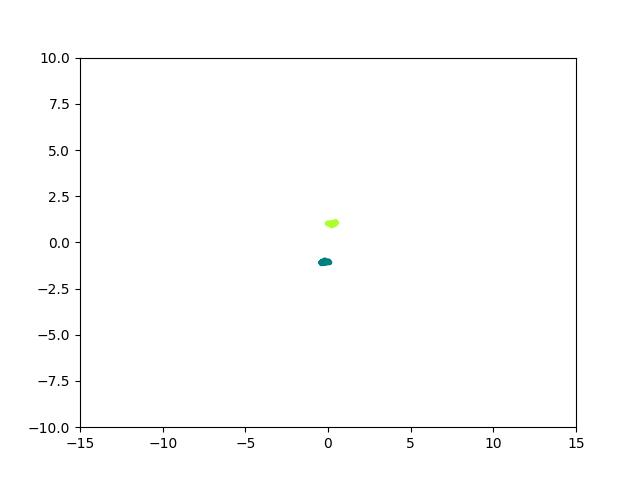
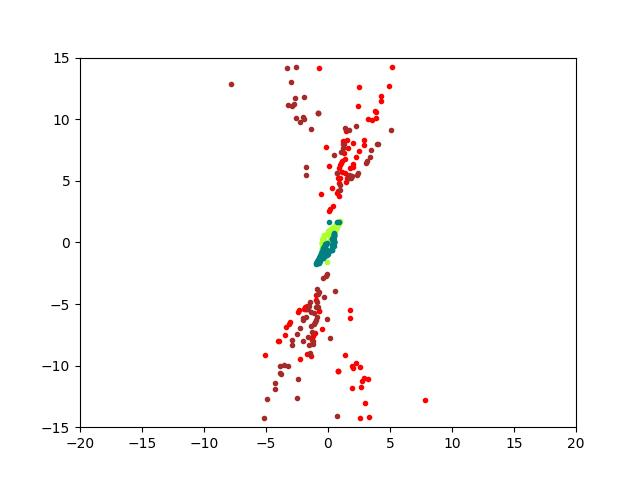
linear triangulation working ++

diff --git a/usivaraman_P2/Phase1/Wrapper.py b/usivaraman_P2/Phase1/Wrapper.py
@@ -34,9 +34,8 @@ def DrawCameras(R, C,plt,ax,label):
     angle = Rotation.from_matrix(R).as_euler("XYZ")
     angle = np.rad2deg(angle)
     plt.plot(C[0],C[2],marker=(3, 0, int(angle[1])),markersize=15,linestyle='None') 
-    corr = -0.1
-    ax.annotate(label,xy=(C[0]+corr,C[2]+corr))
-    # ax.annotate(label,xy=(C[0]))
+   
+    ax.annotate(label,xy=(C[0]))
 
 #Reading the set of matches for the five images given and extracting features
 def features_from_matches():
@@ -128,7 +127,7 @@ def main():
             idx = np.array(idx).reshape(-1)
             
             if len(idx) > 8:
-                F_inliers, inliers_idx = GetInliersRANSAC(pts1,pts2,4000,0.003,idx)                
+                F_inliers, inliers_idx = GetInliersRANSAC(pts1,pts2,2000,0.003,idx)                
                 f_matrix[i,j] = F_inliers
                 filtered_feature_flag[inliers_idx,j] = 1
                 filtered_feature_flag[inliers_idx,i] = 1
@@ -166,12 +165,11 @@ def main():
     # X = X/X[3]
     X = np.array(X)
 
-   
 
     plt.figure("camera disambiguation")
     # plt.set(xlim=(-30, 30), ylim=(-30,30))
-    plt.xlim([-15, 15])
-    plt.ylim([-10, 10])
+    plt.xlim([-20, 20])
+    plt.ylim([-15, 15])
     colors = ['red','brown','greenyellow','teal']
     for color, X_c in zip(colors, X):
         plt.scatter(X_c[:,0],X_c[:,2],color=color,marker='.')
@@ -180,40 +178,45 @@ def main():
     plt.show()
     plt.close()
 
-    # X = X.reshape(-1,1)
+    # # Given World point X and Camera Poses, Disambiguating 
+    # Rpose,Cpose,Xpose =DisambiguateCameraPose(RSet,CSet,X)
+    # Xpose = Xpose/Xpose[3]
+    # # Xpose = Xpose[0:3]
+    # Xpose = np.array(Xpose)
+   
+    # fig = plt.figure()
+    # ax = fig.add_subplot()
+    # plt.scatter(X[:,0], X[:,2],c="g",s=1,label="Linear Triangulation")
+    # plt.savefig("/home/uthira/Documents/GitHub/RBE549_SFM_NERF/usivaraman_P2/Phase1/Data/IntermediateOutputImages/Linear_Triangulation.jpg")
 
-    # Given World point X and Camera Poses, Disambiguating 
-    
-    Rpose,Cpose,Xpose =DisambiguateCameraPose(RSet,CSet,X)
-    Xpose = Xpose/Xpose[3]
-    # Xpose = Xpose[0:3]
-    Xpose = np.array(Xpose)
+    # plt.show()
+    # plt.close()
 
-    fig = plt.figure()
-    ax = fig.add_subplot()
-    plt.scatter(Xpose[:,0], Xpose[:,2],c="b",s=1,label="Disambiguate Camera Pose")
+    # fig = plt.figure()
+    # ax = fig.add_subplot()
+    # plt.scatter(Xpose[:,0], Xpose[:,2],c="b",s=1,label="Disambiguate Camera Pose")
     # plt.savefig("/home/uthira/Documents/GitHub/RBE549_SFM_NERF/usivaraman_P2/Phase1/Data/IntermediateOutputImages/DisambiguateCameraPose.jpg")
 
     # plt.show()
     # plt.close()
 
 
-    # Given World Point X and Camera Poses, We refine the world Point using geometric error using Non Linear Triangulation 
-    X_optimized = NonlinearTriangulation(K,R1_,C1_,Rpose,Cpose,pts1, pts2, Xpose)
+    # # Given World Point X and Camera Poses, We refine the world Point using geometric error using Non Linear Triangulation 
+    # X_optimized = NonlinearTriangulation(K,R1_,C1_,Rpose,Cpose,pts1, pts2, Xpose)
     # fig = plt.figure()
     # ax = fig.add_subplot()
-    plt.scatter(X_optimized[:,0], X_optimized[:,2],c="r",s=1,label="NonLinear_Triangulation")
+    # plt.scatter(X_optimized[:,0], X_optimized[:,2],c="r",s=1,label="NonLinear_Triangulation")
     # plt.savefig("/home/uthira/Documents/GitHub/RBE549_SFM_NERF/usivaraman_P2/Phase1/Data/IntermediateOutputImages/NonLinear_Triangulation.jpg")
 
     # plt.show()
     # plt.close()
 
    
-    DrawCameras(R1_,C1_,plt,ax,"1") #Draw 1st camera 
-    DrawCameras(Rpose,Cpose,plt,ax,"2")  # Draw 2nd camera
+    # DrawCameras(R1_,C1_,plt,ax,"1") #Draw 1st camera 
+    # DrawCameras(Rpose,Cpose,plt,ax,"2")  # Draw 2nd camera
 
-    plt.legend()
-    plt.show()
+    # plt.legend()
+    # plt.show()
     
 
 

diff --git a/usivaraman_P2/Phase1/DisambiguateCameraPose.py b/usivaraman_P2/Phase1/DisambiguateCameraPose.py
@@ -26,30 +26,23 @@ def DisambiguateCameraPose(RSet,CSet,XValues):
     max_positive_depths = 0
     for i in range(len(RSet)):
         R, C= RSet[i], CSet[i]
-        print("R :",R) 
-        print("R  shape:",R.shape)
-        print("C :",C)
-        print("C  shape:",C.shape)
+        # print("R :",R) 
+        # print("R  shape:",R.shape)
+        # print("C :",C)
+        # print("C  shape:",C.shape)
         
 
-        # C = np.transpose(C).reshape(-1,1)
-        # print("C.T :",C)
+        C = np.transpose(C).reshape(-1,1)
+        print(C)
         r3 = R[2].reshape(1,-1)
         counter = 0
-
-        x3D = XValues[i]
-        print(x3D.shape)
-        x3D = x3D.reshape(-1,1)
-        x3D = x3D[:, 0:3]
-        for X in x3D:
+        for X in XValues[i]:
 
             print(X)
 
-            # X = X/X[3]       
-            # X = X[0:3]
+            X = X/X[3]       
+            X = X[0:3]
             X =X.reshape(-1,1)
-            C = C.reshape(-1,1)
-            
 
             if r3.dot(X-C).T>0 and X[2]>0:
                 counter+=1 

diff --git a/usivaraman_P2/Phase1/ExtractCameraPose.py b/usivaraman_P2/Phase1/ExtractCameraPose.py
@@ -49,8 +49,6 @@ def ExtractCameraPose(E):
     # print(" C3, R3 :", C3,R3)
     # print(" C4, R4 :", C4,R4)
 
-    C =[]
-    R =[]
     Camera_Poses = [[C1,R1],[C2,R2],[C3,R3],[C4,R4]]
 
     for i,cameraPose in enumerate(Camera_Poses):
@@ -62,16 +60,14 @@ def ExtractCameraPose(E):
             cameraPose[0] = -cameraPose[0]
             cameraPose[1] = -cameraPose[1]
             Camera_Poses[i] = cameraPose
-        C.append(cameraPose[0])
-        R.append(cameraPose[1])
 
     # print(" C1, R1 :", C1,R1)
     # print(" C2, R2 :", C2,R2)
     # print(" C3, R3 :", C3,R3)
     # print(" C4, R4 :", C4,R4)
 
-    # C = [C1,C2,C3,C4]
-    # R = [R1,R2,R3,R4]
+    C = [C1,C2,C3,C4]
+    R = [R1,R2,R3,R4]
 
     return C,R
 
